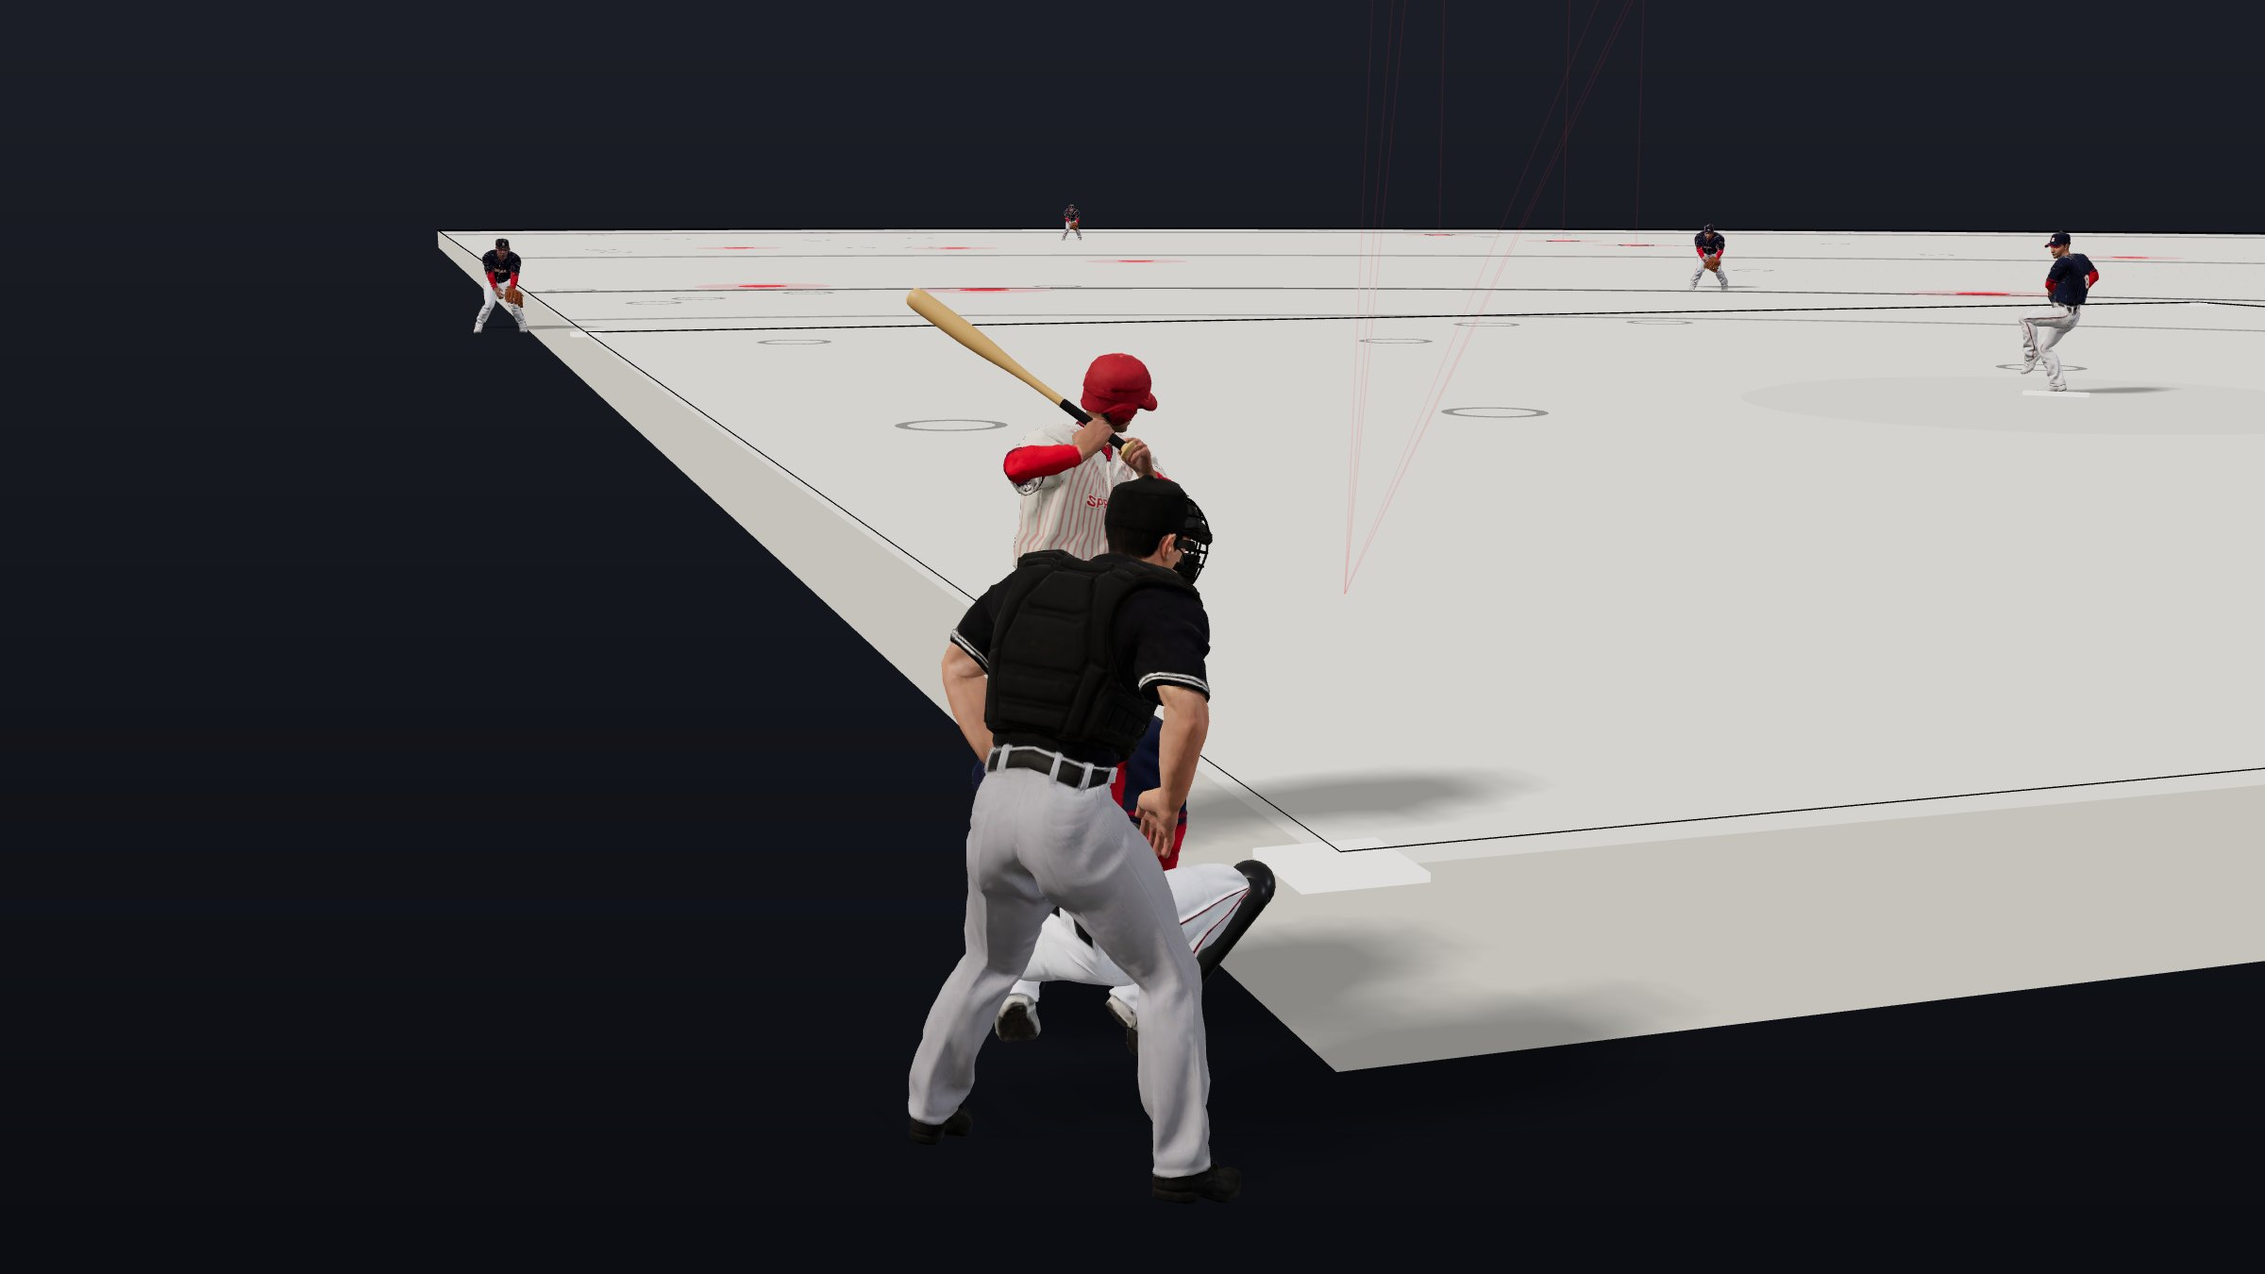
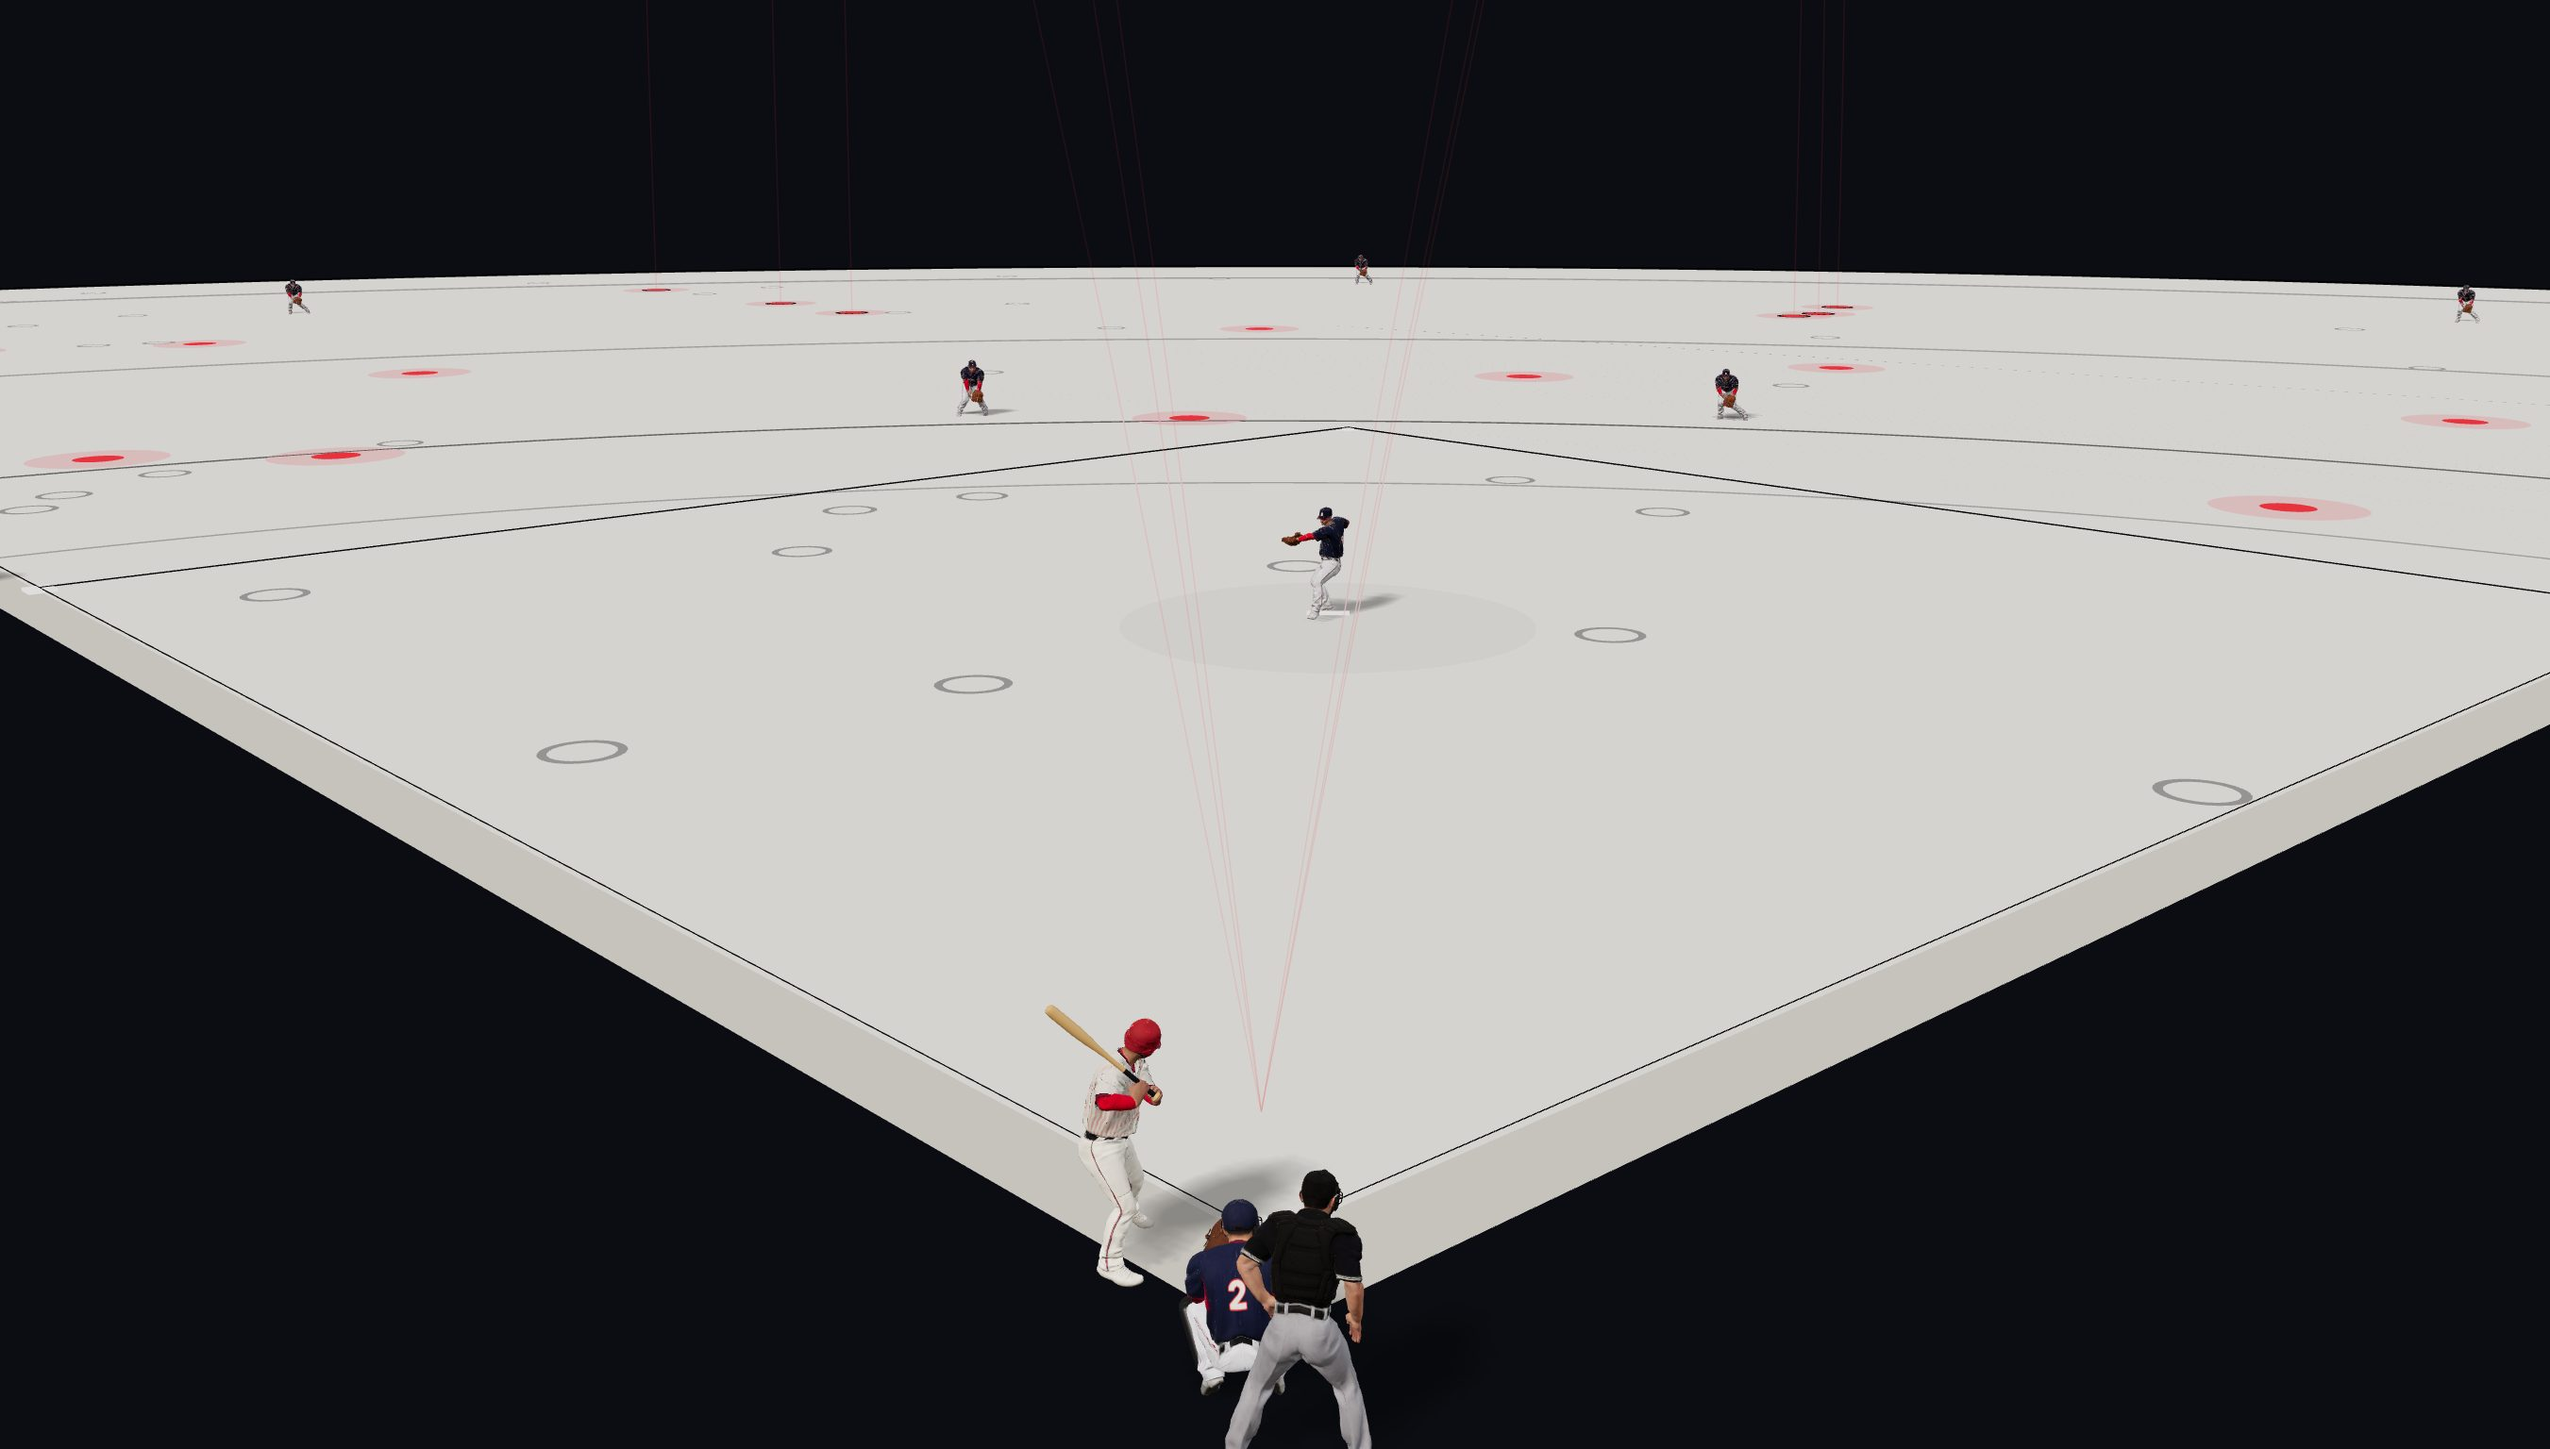
랜딩: 공유 미리보기·파비콘, 스크롤 상단 바, 정지 그림을 3D 첫 프레임과 일치
- og:/twitter: 메타 + og.jpg(1200×630, 첫 화면 렌더), 파비콘 icon-32/192, canonical, theme-color
- .nav fixed → 40px 넘게 내리면 .nav.scrolled(반투명+블러, 72→60px)
- hero_close.jpg(데스크톱)·hero_close_m.jpg(폰, max-width 720px)을 실제 <spray-play> 첫 프레임에서
  떠서 페이드 때 장면이 이어지게 함(폰 평균 픽셀차 36.6→5.4). .bg 바탕색은 본문과 같은 #0B0D12
- README 한 줄, 한 파일 빌드 16.2MB

Changed region(s): [[0.0, 0.1556, 1.0, 1.0], [0.875, 0.3422, 0.9062, 0.3733], [0.3125, 0.3111, 0.3438, 0.3422]]

diff --git a/design/landing-3d/next/landing.src.html b/design/landing-3d/next/landing.src.html
@@ -5,6 +5,23 @@
 <meta name="viewport" content="width=device-width, initial-scale=1">
 <title>SprayLab — 타석 하나 찍으면 차트가 그려진다</title>
 <meta name="description" content="사회인야구 타석을 기록하면 스프레이차트가 그려집니다. 무료 · 가입 없음 · 설치 없음.">
+<meta name="theme-color" content="#0B0D12">
+<link rel="icon" type="image/png" sizes="32x32" href="assets/landing/img/icon-32.png">
+<link rel="icon" type="image/png" sizes="192x192" href="assets/landing/img/icon-192.png">
+<link rel="apple-touch-icon" href="assets/landing/img/icon-192.png">
+<link rel="canonical" href="https://kimjeongcheol13.github.io/baseball-spray-chart/landing.html">
+<meta property="og:type" content="website">
+<meta property="og:site_name" content="SprayLab">
+<meta property="og:title" content="SprayLab — 타석 하나 찍으면 차트가 그려진다">
+<meta property="og:description" content="사회인야구 타석을 기록하면 스프레이차트가 그려집니다. 무료 · 가입 없음 · 설치 없음.">
+<meta property="og:url" content="https://kimjeongcheol13.github.io/baseball-spray-chart/landing.html">
+<meta property="og:image" content="https://kimjeongcheol13.github.io/baseball-spray-chart/assets/landing/img/og.jpg">
+<meta property="og:image:width" content="1200">
+<meta property="og:image:height" content="630">
+<meta name="twitter:card" content="summary_large_image">
+<meta name="twitter:title" content="SprayLab — 타석 하나 찍으면 차트가 그려진다">
+<meta name="twitter:description" content="사회인야구 타석을 기록하면 스프레이차트가 그려집니다. 무료 · 가입 없음 · 설치 없음.">
+<meta name="twitter:image" content="https://kimjeongcheol13.github.io/baseball-spray-chart/assets/landing/img/og.jpg">
 <link rel="stylesheet" href="https://cdn.jsdelivr.net/gh/orioncactus/pretendard@1.3.9/dist/web/variable/pretendardvariable-dynamic-subset.min.css">
 <style>
   :root {
@@ -29,14 +46,16 @@
   .btn-red { background: var(--red); color: #fff; } .btn-white { background: #fff; color: var(--ink); } .btn-ghost { border: 1px solid var(--line); color: #fff; } .btn-ink { background: var(--ink); color: #fff; } .btn-sm { height: 40px; padding: 0 16px; font-size: 14px; }
 
   /* nav */
-  .nav { position: absolute; left: 0; right: 0; top: 0; z-index: 10; }
-  .nav .wrap { height: 72px; display: flex; align-items: center; justify-content: space-between; }
+  .nav { position: fixed; left: 0; right: 0; top: 0; z-index: 10; transition: background .25s ease, border-color .25s ease; border-bottom: 1px solid transparent; }
+  .nav.scrolled { background: rgba(11,13,18,.82); backdrop-filter: saturate(160%) blur(14px); -webkit-backdrop-filter: saturate(160%) blur(14px); border-bottom-color: var(--line); }
+  .nav .wrap { height: 72px; display: flex; align-items: center; justify-content: space-between; transition: height .25s ease; }
+  .nav.scrolled .wrap { height: 60px; }
   .brand { font-weight: 800; font-size: 17px; letter-spacing: .1em; } .brand i { display: inline-block; width: 9px; height: 9px; border-radius: 50%; background: var(--red); margin-right: 9px; vertical-align: 1px; }
   .menu { display: flex; gap: 28px; font-size: 14px; font-weight: 600; color: var(--fg-2); } .menu a:hover { color: #fff; }
 
   /* hero */
   .hero { position: relative; height: 100vh; min-height: 760px; max-height: 960px; overflow: hidden; display: flex; align-items: flex-end; }
-  .hero .bg { position: absolute; inset: 0; background: #14161D url(assets/landing/img/hero_close.jpg) center / cover no-repeat; transition: opacity .8s ease; }
+  .hero .bg { position: absolute; inset: 0; background: #0B0D12 url(assets/landing/img/hero_close.jpg) center / cover no-repeat; transition: opacity .8s ease; }
   .hero.live-on .bg { opacity: 0; }
   /* the element sets position / width / height / aspect-ratio inline, so these win with !important */
   .hero spray-play, .live spray-play { position: absolute !important; left: 0; right: 0; top: 0; bottom: 0; width: auto !important; height: auto !important; min-height: 0 !important; aspect-ratio: auto !important; }
@@ -143,6 +162,7 @@
     .wrap { padding: 0 20px; }
     .menu { display: none; }
     .hero { min-height: 700px; max-height: none; height: auto; padding-top: 110px; }
+    .hero .bg { background-image: url(assets/landing/img/hero_close_m.jpg); }
     .hero .wrap { grid-template-columns: 1fr; padding-bottom: 36px; gap: 24px; }
     h1 { font-size: 42px; } .lead { font-size: 16px; }
     .chips { flex-direction: row; flex-wrap: wrap; align-items: stretch; } .chip { min-width: 0; flex: 1 1 44%; padding: 12px 14px; } .chip b { font-size: 24px; }
@@ -292,6 +312,8 @@
 (function () {
   var h = document.querySelector('.hero'), p = document.getElementById('hero3d'), n = 0;
   var t = setInterval(function () { if (p && p.renderer) { h.classList.add('live-on'); clearInterval(t); } else if (++n > 600) clearInterval(t); }, 100);
+  var nav = document.querySelector('.nav'), onScroll = function () { nav.classList.toggle('scrolled', scrollY > 40); };
+  addEventListener('scroll', onScroll, { passive: true }); onScroll();
 })();
 </script>
 </body>

diff --git a/landing.html b/landing.html
@@ -5,6 +5,23 @@
 <meta name="viewport" content="width=device-width, initial-scale=1">
 <title>SprayLab — 타석 하나 찍으면 차트가 그려진다</title>
 <meta name="description" content="사회인야구 타석을 기록하면 스프레이차트가 그려집니다. 무료 · 가입 없음 · 설치 없음.">
+<meta name="theme-color" content="#0B0D12">
+<link rel="icon" type="image/png" sizes="32x32" href="assets/landing/img/icon-32.png">
+<link rel="icon" type="image/png" sizes="192x192" href="assets/landing/img/icon-192.png">
+<link rel="apple-touch-icon" href="assets/landing/img/icon-192.png">
+<link rel="canonical" href="https://kimjeongcheol13.github.io/baseball-spray-chart/landing.html">
+<meta property="og:type" content="website">
+<meta property="og:site_name" content="SprayLab">
+<meta property="og:title" content="SprayLab — 타석 하나 찍으면 차트가 그려진다">
+<meta property="og:description" content="사회인야구 타석을 기록하면 스프레이차트가 그려집니다. 무료 · 가입 없음 · 설치 없음.">
+<meta property="og:url" content="https://kimjeongcheol13.github.io/baseball-spray-chart/landing.html">
+<meta property="og:image" content="https://kimjeongcheol13.github.io/baseball-spray-chart/assets/landing/img/og.jpg">
+<meta property="og:image:width" content="1200">
+<meta property="og:image:height" content="630">
+<meta name="twitter:card" content="summary_large_image">
+<meta name="twitter:title" content="SprayLab — 타석 하나 찍으면 차트가 그려진다">
+<meta name="twitter:description" content="사회인야구 타석을 기록하면 스프레이차트가 그려집니다. 무료 · 가입 없음 · 설치 없음.">
+<meta name="twitter:image" content="https://kimjeongcheol13.github.io/baseball-spray-chart/assets/landing/img/og.jpg">
 <link rel="stylesheet" href="https://cdn.jsdelivr.net/gh/orioncactus/pretendard@1.3.9/dist/web/variable/pretendardvariable-dynamic-subset.min.css">
 <style>
   :root {
@@ -29,14 +46,16 @@
   .btn-red { background: var(--red); color: #fff; } .btn-white { background: #fff; color: var(--ink); } .btn-ghost { border: 1px solid var(--line); color: #fff; } .btn-ink { background: var(--ink); color: #fff; } .btn-sm { height: 40px; padding: 0 16px; font-size: 14px; }
 
   /* nav */
-  .nav { position: absolute; left: 0; right: 0; top: 0; z-index: 10; }
-  .nav .wrap { height: 72px; display: flex; align-items: center; justify-content: space-between; }
+  .nav { position: fixed; left: 0; right: 0; top: 0; z-index: 10; transition: background .25s ease, border-color .25s ease; border-bottom: 1px solid transparent; }
+  .nav.scrolled { background: rgba(11,13,18,.82); backdrop-filter: saturate(160%) blur(14px); -webkit-backdrop-filter: saturate(160%) blur(14px); border-bottom-color: var(--line); }
+  .nav .wrap { height: 72px; display: flex; align-items: center; justify-content: space-between; transition: height .25s ease; }
+  .nav.scrolled .wrap { height: 60px; }
   .brand { font-weight: 800; font-size: 17px; letter-spacing: .1em; } .brand i { display: inline-block; width: 9px; height: 9px; border-radius: 50%; background: var(--red); margin-right: 9px; vertical-align: 1px; }
   .menu { display: flex; gap: 28px; font-size: 14px; font-weight: 600; color: var(--fg-2); } .menu a:hover { color: #fff; }
 
   /* hero */
   .hero { position: relative; height: 100vh; min-height: 760px; max-height: 960px; overflow: hidden; display: flex; align-items: flex-end; }
-  .hero .bg { position: absolute; inset: 0; background: #14161D url(assets/landing/img/hero_close.jpg) center / cover no-repeat; transition: opacity .8s ease; }
+  .hero .bg { position: absolute; inset: 0; background: #0B0D12 url(assets/landing/img/hero_close.jpg) center / cover no-repeat; transition: opacity .8s ease; }
   .hero.live-on .bg { opacity: 0; }
   /* the element sets position / width / height / aspect-ratio inline, so these win with !important */
   .hero spray-play, .live spray-play { position: absolute !important; left: 0; right: 0; top: 0; bottom: 0; width: auto !important; height: auto !important; min-height: 0 !important; aspect-ratio: auto !important; }
@@ -143,6 +162,7 @@
     .wrap { padding: 0 20px; }
     .menu { display: none; }
     .hero { min-height: 700px; max-height: none; height: auto; padding-top: 110px; }
+    .hero .bg { background-image: url(assets/landing/img/hero_close_m.jpg); }
     .hero .wrap { grid-template-columns: 1fr; padding-bottom: 36px; gap: 24px; }
     h1 { font-size: 42px; } .lead { font-size: 16px; }
     .chips { flex-direction: row; flex-wrap: wrap; align-items: stretch; } .chip { min-width: 0; flex: 1 1 44%; padding: 12px 14px; } .chip b { font-size: 24px; }
@@ -293,6 +313,8 @@
 (function () {
   var h = document.querySelector('.hero'), p = document.getElementById('hero3d'), n = 0;
   var t = setInterval(function () { if (p && p.renderer) { h.classList.add('live-on'); clearInterval(t); } else if (++n > 600) clearInterval(t); }, 100);
+  var nav = document.querySelector('.nav'), onScroll = function () { nav.classList.toggle('scrolled', scrollY > 40); };
+  addEventListener('scroll', onScroll, { passive: true }); onScroll();
 })();
 </script>
 </body>

diff --git a/design/landing-3d/README.md b/design/landing-3d/README.md
@@ -14,12 +14,13 @@ cd design/landing-3d
 python tools/build.py source/SprayLab_Landing.orig.html src/glbfig.js SprayLab_Landing.glb.html   # 3D 요소 스크립트(glbfig 포함)를 담은 번들
 python tools/unbundle.py SprayLab_Landing.glb.html ../..     # 3D 자원만 풀기: js/landing/vendor/(three·addons), assets/landing/(GLB·동작). 옛 캔버스 페이지는 legacy/로
 python tools/build_landing.py                                 # next/landing.src.html + 번들에서 꺼낸 <spray-play> 스크립트 → ../../landing.html, js/landing/spray-play.js, assets/landing/img/
-python tools/build_landing.py --single SprayLab_Landing.page.html   # 전부 인라인한 한 파일(바탕화면 복사본용, 15.7MB)
+python tools/build_landing.py --single SprayLab_Landing.page.html   # 전부 인라인한 한 파일(바탕화면 복사본용, 16.2MB)
 ```
 
 - 페이지 소스는 `next/landing.src.html`(글·CSS·구조), 이미지는 `next/img/`(앱 화면 2배 캡처 `app_*.jpg`, 앱이 내보낸 리포트 `report.jpg`, 3D를 찍은 `hero_close.jpg`·`cta_bg.jpg`), QR은 빌드 때 SVG로 본문에 들어 있다.
 - 숫자는 전부 샘플 선수 김민준(#8, 15타석)의 것이다(.333 / .467 / .583 · OPS 1.050 · wOBA .451 · ISO .250 · 당김 36 / 센터 36 / 밀어 27%). 3D의 카운터만 "이번 경기".
 - 3D 요소는 인라인 스타일로 자기 크기를 정하므로 페이지 CSS가 `!important`로 absolute·inset을 덮어쓴다. 첫 화면에서는 요소의 자체 라벨(투구·타격·기록, 카운터)을 숨기고, "필드" 칸에서는 흰색으로 보여 준다.
+- 공유 미리보기: head의 `og:`·`twitter:` 메타와 `img/og.jpg`(1200×630, 첫 화면을 그대로 찍은 것), 파비콘 `img/icon-32/192.png`(앱의 player-logo). 상단 바는 fixed이고 40px 넘게 내리면 `.nav.scrolled`(반투명+블러, 60px)로 바뀐다. `hero_close.jpg`는 3D의 첫 프레임(tau 0.05)을 2400×1280으로 찍은 것이라 페이드 때 장면이 이어진다.
 - 글꼴은 Pretendard(jsDelivr 동적 서브셋 `<link>`). 외부 의존은 그것뿐이다.
 - 검토 과정의 다른 시안: `next/index.html`(A안 흰 배경 제품 랜딩), `next/hero-b.html`(B안 다크 테크), `next/index-c.html`(C안 정지 그림 버전). 레퍼런스 보드와 전후 비교는 `harness/clips/report/`(gitignore).
 - 아래 내용(3D 선수 제작, 동작, 장비, 옛 캔버스 변환 `unbundle.py`의 페이지 편집)은 그대로 유효한 기록이다. `unbundle.py`의 페이지 변환 부분은 이제 `legacy/landing.html`에만 쓰인다.
